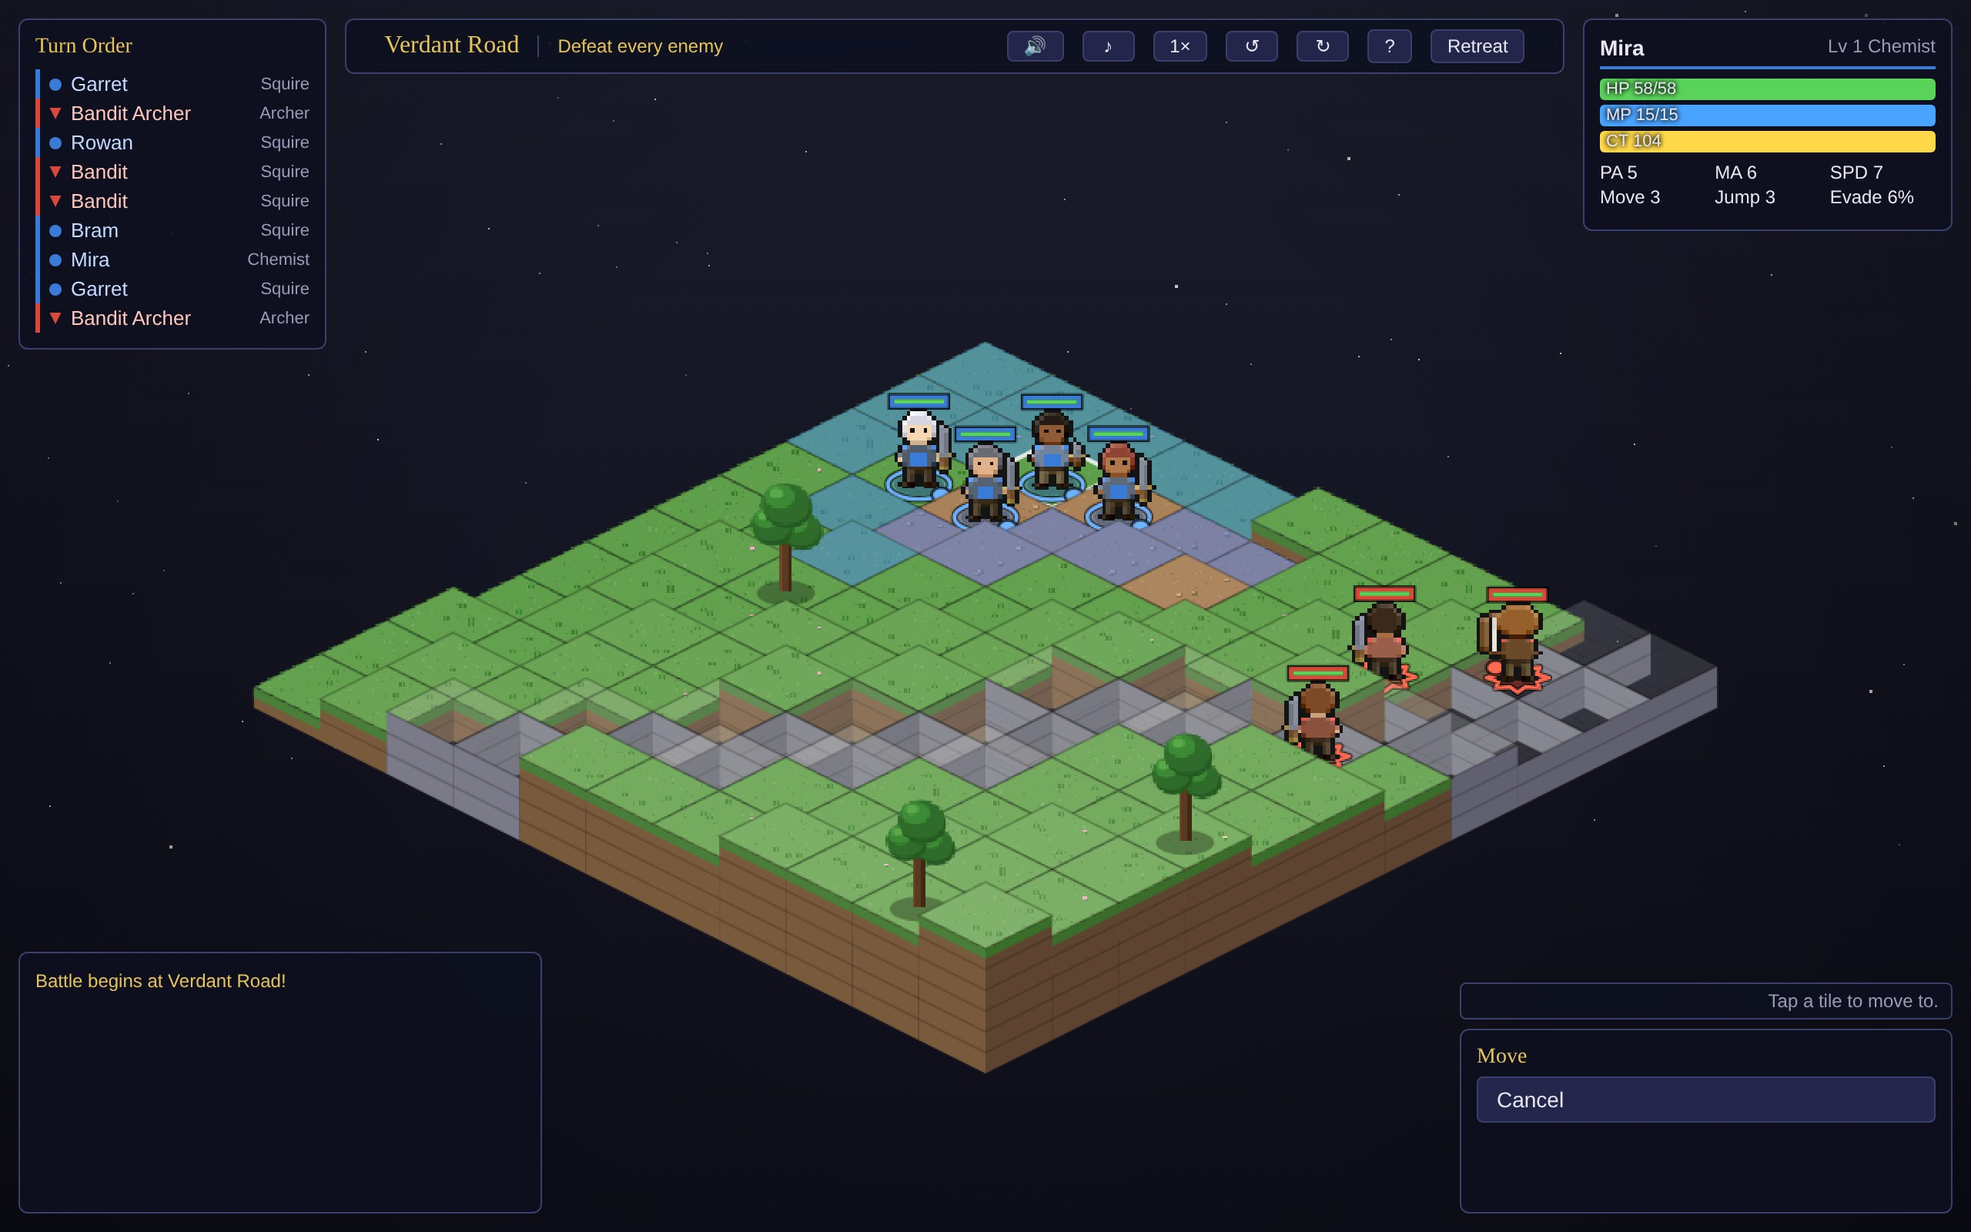
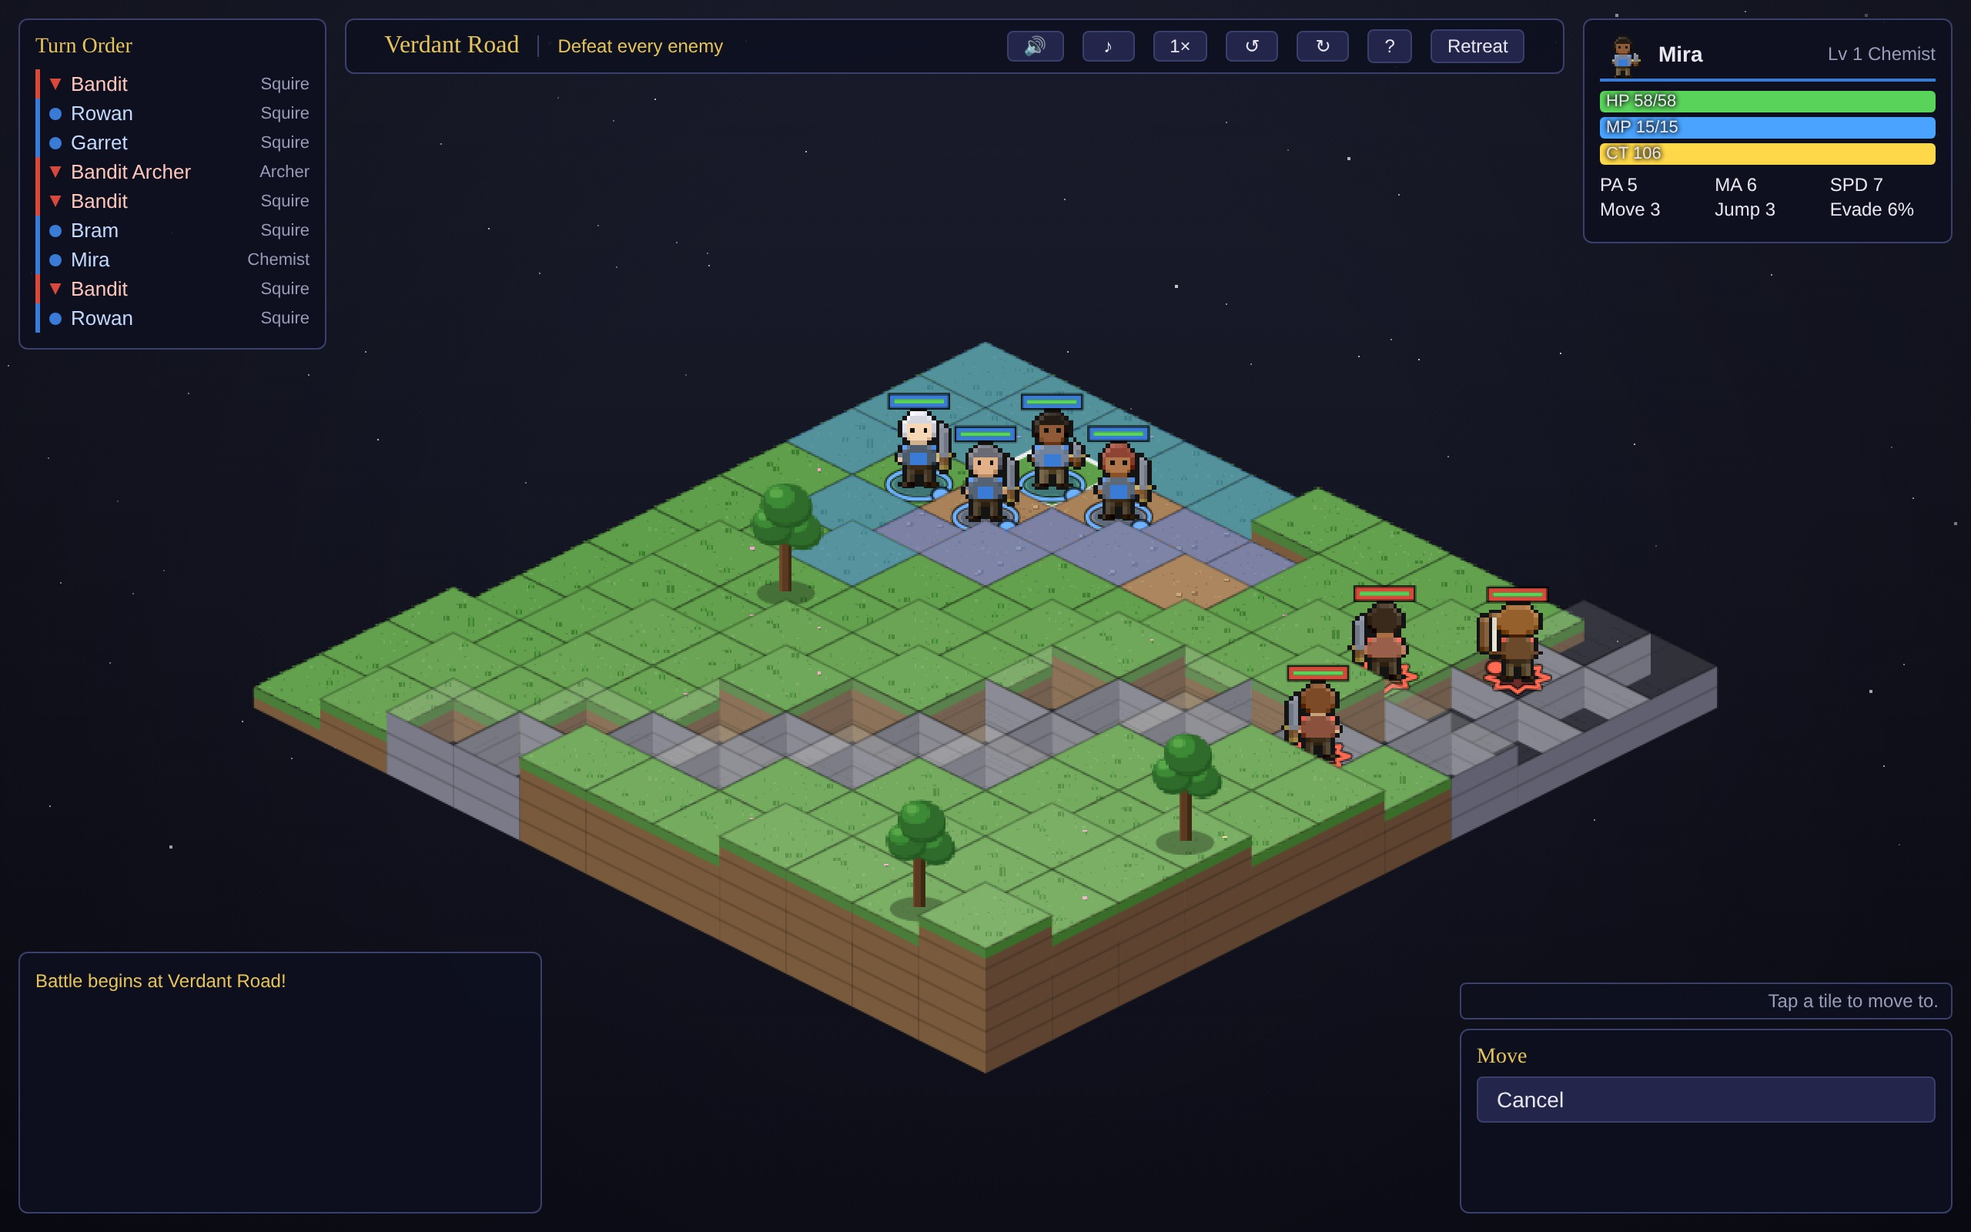
Draw the realm at camp, keep the road going after the war, faces on the card (#17)
The camp was a list of buttons. It now opens on a map of the realm: the
seven chapters as stops along a road, each coloured by the mood of the
field it is fought on, the road walked solid and the road ahead dashed,
flags on the chapters won and a question mark on those not yet reached.
The company's own leader stands beside the next stop, and tapping it
marches. The map is drawn once the screen is showing, since a hidden
canvas has no width to fit, and again when the window changes shape.

The campaign used to end in a disabled button. The road keeps going:
numbered trials on a random field, drawn from the campaign's toughest
pools, a level or two above the party and climbing one trial at a time.
A trial won is recorded and the next is harder; a trial lost costs
nothing and is offered again. The count is saved.

The unit card in battle carries the unit's own face beside its name, so
the figure you tapped and the numbers you read are plainly the same
person.

Chapter numbers sit inside their stops and only the next stop is named
above it, because on a phone a number above one stop landed on the name
below its neighbour. Labels are also kept inside the canvas, where a
stop near the edge lost half its name.

Claude-Session: https://claude.ai/code/session_015rBMt2mMzvqJ2PGqK7HNCX

diff --git a/js/game.js b/js/game.js
@@ -4,6 +4,8 @@
 
 const SAVE_KEY = 'elderon-tactics-save';
 const PACE_KEY = 'elderon.pace';
+// Where each chapter sits on the map of the realm, as fractions of the canvas.
+const WORLD_ROUTE = [[0.09, 0.74], [0.22, 0.50], [0.37, 0.68], [0.52, 0.42], [0.66, 0.64], [0.79, 0.34], [0.91, 0.20]];
 const HIRE_NAMES = ['Aldo', 'Bea', 'Corin', 'Dessa', 'Emeric', 'Faye', 'Gil', 'Hollis', 'Ines', 'Joss', 'Kit', 'Lune', 'Marek', 'Nia', 'Orrin', 'Pell'];
 
 const $ = (id) => document.getElementById(id);
@@ -84,14 +86,14 @@ class Game {
   newGame() {
     this.state = {
       party: STARTING_PARTY.map(p => new Unit(Object.assign({ team: 'player' }, p))),
-      gil: 500, chapter: 0, victories: 0, inventory: {}, difficulty: this.pendingDifficulty || 'knight',
+      gil: 500, chapter: 0, victories: 0, trials: 0, inventory: {}, difficulty: this.pendingDifficulty || 'knight',
     };
     this.showWorld();
   }
 
   saveGame() {
     const data = {
-      v: 3, gil: this.state.gil, chapter: this.state.chapter, victories: this.state.victories,
+      v: 3, gil: this.state.gil, chapter: this.state.chapter, victories: this.state.victories, trials: this.state.trials || 0,
       difficulty: this.state.difficulty,
       inventory: this.state.inventory, party: this.state.party.map(u => u.toSave()),
     };
@@ -119,6 +121,7 @@ class Game {
       gil: Number.isFinite(d.gil) ? d.gil : 0,
       chapter: Number.isFinite(d.chapter) ? Math.max(0, Math.min(CAMPAIGN.length, d.chapter)) : 0,
       victories: d.victories || 0,
+      trials: d.trials || 0,
       inventory: {},
       difficulty: DIFFICULTIES[d.difficulty] ? d.difficulty : 'knight',
       party: d.party.map(p => Unit.fromSave(Object.assign({ team: 'player' }, p))),
@@ -226,9 +229,16 @@ class Game {
       $('btn-battle').disabled = false;
       $('btn-battle').textContent = 'March to Battle';
     } else {
-      $('world-next').innerHTML = `<div class="chapter-title">The war is over... for now.</div><div class="chapter-map">Training battles remain available.</div>`;
-      $('btn-battle').disabled = true;
-      $('btn-battle').textContent = 'Campaign complete';
+      // The war is won; the trials are what a company does with peace.
+      const n = (s.trials || 0) + 1, t = this.trialSpec(n);
+      $('world-next').innerHTML = `
+        <div class="chapter-num">Trial ${n}</div>
+        <div class="chapter-title">${t.title}</div>
+        <div class="chapter-map">${MAPS[t.map].name} · ${t.enemies.length} enemies · Lv ${t.level}</div>
+        <div class="chapter-goal">Objective: Defeat every enemy · ${t.gil} gil</div>
+        <div class="chapter-map">The campaign is complete. Each trial is harder than the last, and nothing is lost by failing one.</div>`;
+      $('btn-battle').disabled = false;
+      $('btn-battle').textContent = `Trial ${n}`;
     }
     const diff = DIFFICULTIES[s.difficulty] || DIFFICULTIES.knight;
     $('world-difficulty').innerHTML = Object.entries(DIFFICULTIES).map(([id, d]) =>
@@ -245,6 +255,8 @@ class Game {
     $('hire-info').textContent = `Hire a level ${hireLvl} recruit for 300 gil (party max 8).`;
     $('btn-hire-squire').disabled = $('btn-hire-chemist').disabled = s.gil < 300 || s.party.length >= 8;
     this.showScreen('world');
+    // Drawn once the screen is showing, so the canvas has a width to fit.
+    this.drawWorldMap();
   }
 
   // A word of warning when the party is walking into a chapter underprepared.
@@ -543,9 +555,125 @@ class Game {
   }
 
   // ---- battles ----------------------------------------------------------------------------------
+  /* After the last chapter the road keeps going: numbered trials on a
+     random field, drawn from the campaign's toughest pools and a level or
+     two above the party, climbing one trial at a time. */
+  trialSpec(n) {
+    const s = this.state;
+    const seed = (s.victories * 7919 + n * 104729) >>> 0;
+    const rnd = (k) => ((seed * (k + 1) * 2654435761) >>> 0) / 4294967296;
+    const mapIds = Object.keys(MAPS);
+    const map = mapIds[Math.floor(rnd(1) * mapIds.length)];
+    const pool = TRAINING_POOL[Math.min(TRAINING_POOL.length - 1, 4 + Math.floor(n / 2))];
+    const count = Math.min(7, pool.length + Math.floor((n - 1) / 3));
+    const jobs = []; for (let i = 0; i < count; i++) jobs.push(pool[Math.floor(rnd(10 + i) * pool.length)]);
+    const level = this.avgLevel() + 1 + Math.floor(n / 2);
+    const titles = ['Echoes of the War', 'The Road Not Taken', 'Old Debts', 'A Rumour of Banners', 'Ghosts of Thornwall',
+                    'The Long Watch', 'Hired Steel', 'What the Marsh Kept', 'The Last Company', 'No Crown but Ours'];
+    return { map, jobs, level, enemies: jobs, gil: 400 + 120 * n, title: titles[(n - 1) % titles.length] };
+  }
+
+  async startTrial() {
+    const n = (this.state.trials || 0) + 1, t = this.trialSpec(n);
+    const map = MAPS[t.map];
+    // Spawn on passable ground far from the deploy zone, as training does.
+    const cands = [];
+    for (let y = 0; y < map.h; y++) for (let x = 0; x < map.w; x++) {
+      if ('wtx'.includes(map.terrain[y][x])) continue;
+      const d = Math.min(...map.deploy.map(p => Math.abs(p[0] - x) + Math.abs(p[1] - y)));
+      if (d >= 6) cands.push({ x, y, d });
+    }
+    cands.sort(() => Math.random() - 0.5);
+    const enemies = t.jobs.map((job, i) => ({ job, level: t.level, x: cands[i % cands.length].x, y: cands[i % cands.length].y }));
+    await this.story(`Trial ${n}: ${t.title}`, [`${map.name}. Word has spread of the company that ended the war, and ${enemies.length} have come to test it.`]);
+    const res = await this.runBattle(map, enemies, t.gil, { objective: { type: 'rout' } });
+    if (res === 'aborted') return;
+    if (res === 'victory') { this.state.trials = n; this.state.victories++; }
+    this.saveGame();
+    this.showWorld();
+  }
+
+  /* The realm, drawn: the seven chapters as stops along a road, coloured by
+     the mood of the field each is fought on, with the company's own leader
+     standing where the story has reached. */
+  drawWorldMap() {
+    const cv = $('world-map');
+    if (!cv) return;
+    const cssW = Math.max(280, cv.clientWidth || 800), cssH = cssW / 2, dpr = Math.min(2, window.devicePixelRatio || 1);
+    cv.width = Math.round(cssW * dpr); cv.height = Math.round(cssH * dpr);
+    const c = cv.getContext('2d');
+    c.setTransform(dpr, dpr, 0, 0, 0, 0); c.setTransform(dpr, 0, 0, dpr, 0, 0);
+    const W = cssW, H = cssH;
+    const bg = c.createLinearGradient(0, 0, W, H);
+    bg.addColorStop(0, '#1c1a2e'); bg.addColorStop(1, '#0f0e1a');
+    c.fillStyle = bg; c.fillRect(0, 0, W, H);
+    // Contours, so the parchment is a land and not a panel.
+    c.strokeStyle = 'rgba(255,255,255,0.05)'; c.lineWidth = 1;
+    for (let i = 0; i < 9; i++) {
+      c.beginPath();
+      for (let x = 0; x <= W; x += 16) {
+        const y = H * (0.12 + i * 0.1) + Math.sin(x / 60 + i) * 8 + Math.sin(x / 23 + i * 2) * 3;
+        if (x) c.lineTo(x, y); else c.moveTo(x, y);
+      }
+      c.stroke();
+    }
+    const pts = WORLD_ROUTE.map(([fx, fy]) => ({ x: fx * W, y: fy * H }));
+    // The road, dashed where it has not yet been walked.
+    const reached = Math.min(this.state.chapter, pts.length - 1);
+    const road = (from, to, dashed) => {
+      c.beginPath(); c.setLineDash(dashed ? [5, 6] : []);
+      c.moveTo(pts[from].x, pts[from].y);
+      for (let i = from + 1; i <= to; i++) {
+        const a = pts[i - 1], b = pts[i], mx = (a.x + b.x) / 2, my = (a.y + b.y) / 2 + (i % 2 ? 18 : -18);
+        c.quadraticCurveTo(mx, my, b.x, b.y);
+      }
+      c.stroke(); c.setLineDash([]);
+    };
+    c.lineWidth = 4; c.strokeStyle = 'rgba(0,0,0,0.5)'; road(0, pts.length - 1, false);
+    c.lineWidth = 2; c.strokeStyle = '#8a7a58'; road(0, reached, false);
+    c.strokeStyle = 'rgba(138,122,88,0.5)'; road(reached, pts.length - 1, true);
+    c.font = '11px Georgia, serif'; c.textAlign = 'center';
+    CAMPAIGN.forEach((ch, i) => {
+      const p = pts[i], mood = MOODS[MAPS[ch.map].mood] || MOODS.day;
+      const done = i < this.state.chapter, next = i === this.state.chapter;
+      c.beginPath(); c.arc(p.x, p.y, 9, 0, Math.PI * 2);
+      c.fillStyle = done || next ? mood.sky[0] : '#1a1a26'; c.fill();
+      c.lineWidth = next ? 3 : 1.5;
+      c.strokeStyle = next ? '#ffd84a' : done ? '#c9b98a' : 'rgba(255,255,255,0.18)'; c.stroke();
+      if (next) { c.beginPath(); c.arc(p.x, p.y, 15, 0, Math.PI * 2); c.strokeStyle = 'rgba(255,216,74,0.35)'; c.lineWidth = 1; c.stroke(); }
+      if (done) { c.fillStyle = '#c9b98a'; c.fillRect(p.x - 1, p.y - 14, 2, 10); c.fillStyle = '#d8483b'; c.beginPath(); c.moveTo(p.x + 1, p.y - 14); c.lineTo(p.x + 9, p.y - 11); c.lineTo(p.x + 1, p.y - 8); c.closePath(); c.fill(); }
+      // Labels are kept inside the canvas; a stop near an edge would
+      // otherwise lose half its name.
+      const lx = Math.max(40, Math.min(W - 40, p.x));
+      c.fillStyle = done || next ? '#e6e6f0' : 'rgba(230,230,240,0.35)';
+      const label = done || next ? MAPS[ch.map].name : '?';
+      c.fillText(label, lx, p.y + 24);
+      // The number sits inside its stop; only the next stop is named above,
+      // so numbers and neighbours' names never collide on a narrow screen.
+      if (next) { c.fillStyle = '#ffd84a'; c.fillText('Chapter ' + (i + 1), lx, p.y - 14); }
+      else { c.fillStyle = done ? '#1a1a26' : 'rgba(230,230,240,0.5)'; c.font = 'bold 10px Georgia, serif'; c.fillText(String(i + 1), p.x, p.y + 4); c.font = '11px Georgia, serif'; }
+    });
+    // The company, where the story has reached.
+    const leader = this.state.party.find(u => u.leader) || this.state.party[0];
+    if (leader) {
+      const at = pts[Math.min(this.state.chapter, pts.length - 1)];
+      const face = document.createElement('canvas');
+      paintUnitSprite(face, leader, 1);
+      c.imageSmoothingEnabled = false;
+      // Beside the stop, clear of its label.
+      c.drawImage(face, at.x + 18, at.y - face.height + 6);
+    }
+    cv.onclick = (e) => {
+      const r = cv.getBoundingClientRect();
+      const x = (e.clientX - r.left) * (W / r.width), y = (e.clientY - r.top) * (H / r.height);
+      const next = pts[this.state.chapter];
+      if (next && Math.hypot(x - next.x, y - next.y) < 22) $('btn-battle').click();
+    };
+  }
+
   async startNextChapter() {
     const ch = CAMPAIGN[this.state.chapter];
-    if (!ch) return;
+    if (!ch) return this.startTrial();
     await this.story(ch.title, ch.intro);
     const result = await this.runBattle(MAPS[ch.map], ch.enemies, ch.gil, { objective: ch.objective });
     if (result === 'aborted') return;
@@ -739,7 +867,7 @@ window.addEventListener('DOMContentLoaded', () => {
     game.renderer.centerCamera();
   };
   window.addEventListener('orientationchange', () => setTimeout(reframe, 250));
-  window.addEventListener('resize', () => { clearTimeout(window.__rt); window.__rt = setTimeout(reframe, 200); });
+  window.addEventListener('resize', () => { clearTimeout(window.__rt); window.__rt = setTimeout(() => { reframe(); if (game.screen === 'world') game.drawWorldMap(); }, 200); });
   // A quiet blip on any button keeps the menus feeling responsive.
   document.addEventListener('click', (e) => {
     if (e.target.tagName === 'BUTTON' && !e.target.disabled) audio.sfx('menu');

diff --git a/css/style.css b/css/style.css
@@ -29,6 +29,8 @@ small { color: var(--muted); }
 /* ---------- world ---------- */
 .world-layout { display: flex; gap: 24px; max-width: 1000px; margin: 40px auto; padding: 0 20px; }
 .world-main { flex: 1; }
+/* The realm: where the company has been and where it goes next. */
+#world-map { display: block; width: 100%; aspect-ratio: 2 / 1; border-radius: 6px; border: 1px solid var(--border); background: #14121f; cursor: pointer; margin-bottom: 12px; }
 .world-side { width: 300px; }
 .card { background: var(--panel); border: 1px solid var(--border); border-radius: 6px; padding: 16px; margin-bottom: 16px; }
 .chapter-num { color: var(--muted); text-transform: uppercase; letter-spacing: 2px; font-size: 12px; }
@@ -104,8 +106,10 @@ small { color: var(--muted); }
 .order-row.pending .dot { background: #ffd84a; border-radius: 0; clip-path: none; transform: rotate(45deg); }
 #unit-card { top: 12px; right: 12px; width: 240px; min-height: 0; }
 #unit-card:empty { display: none; }
-.card-head { display: flex; justify-content: space-between; border-bottom: 2px solid #888; padding-bottom: 4px; margin-bottom: 6px; }
+.card-head { display: flex; align-items: center; gap: 8px; border-bottom: 2px solid #888; padding-bottom: 4px; margin-bottom: 6px; }
+.card-head b { flex: 1; }
 .card-head span { color: var(--muted); font-size: 12px; }
+.card-face { width: 30px; height: 32px; image-rendering: pixelated; flex: none; margin: -4px 0; }
 .card-head.player { border-color: var(--player); }
 .card-head.enemy { border-color: var(--enemy); }
 .bar { position: relative; height: 14px; background: #111; border-radius: 3px; margin: 3px 0; overflow: hidden; }

diff --git a/js/ui.js b/js/ui.js
@@ -154,7 +154,7 @@ class BattleUI {
       .map(a => `<span class="aff" style="color:${ELEMENTS[a.e].color}">${ELEMENTS[a.e].name} ${affinityLabel(a.m)}</span>`).join('');
     const mods = Object.entries(u.mods).filter(([, v]) => v).map(([k, v]) => `${k.toUpperCase()} ${v > 0 ? '+' : ''}${v}`).join(', ');
     this.el.card.innerHTML = `
-      <div class="card-head ${u.team}"><b>${u.name}</b><span>Lv ${u.level} ${u.jobData.name}${u.boss ? ' ★' : ''}</span></div>
+      <div class="card-head ${u.team}"><canvas class="card-face"></canvas><b>${u.name}</b><span>Lv ${u.level} ${u.jobData.name}${u.boss ? ' ★' : ''}</span></div>
       <div class="bar hp"><i style="width:${(u.hp / u.maxHp) * 100}%"></i><span>HP ${u.hp}/${u.maxHp}</span></div>
       <div class="bar mp"><i style="width:${u.maxMp ? (u.mp / u.maxMp) * 100 : 0}%"></i><span>MP ${u.mp}/${u.maxMp}</span></div>
       <div class="bar ct"><i style="width:${Math.min(100, u.ct)}%"></i><span>CT ${u.ct}</span></div>
@@ -166,6 +166,9 @@ class BattleUI {
       <div class="statuses">${st}</div>
       ${aff ? `<div class="affinities">${aff}</div>` : ''}
       ${u.alive ? '' : `<div class="ko">KO${u.koCount ? ` — carried off in ${u.koCount}` : ''}</div>`}`;
+    // A face on the card, so the figure you tapped and the numbers you read
+    // are plainly the same person.
+    paintUnitSprite(this.el.card.querySelector('.card-face'), u, 1);
   }
 
   renderTileInfo(t) {

diff --git a/tools/make-store.js b/tools/make-store.js
@@ -142,7 +142,13 @@ async function toMenu(page) {
     await page.waitForSelector('#screen-shop.active');
     await page.waitForTimeout(300);
     await shot(page, 'phone-6-shop.jpg');
-    written.push('phone-1-title.jpg', 'phone-2-deploy.jpg', 'phone-3-move.jpg', 'phone-4-attack.jpg', 'phone-5-formation.jpg', 'phone-6-shop.jpg');
+    // The camp, a few chapters in, so the map shows a road already walked.
+    await page.click('#btn-shop-back');
+    await page.waitForSelector('#screen-world.active');
+    await page.evaluate(() => { game.state.chapter = 3; game.showWorld(); });
+    await page.waitForTimeout(300);
+    await shot(page, 'phone-7-camp.jpg');
+    written.push('phone-1-title.jpg', 'phone-2-deploy.jpg', 'phone-3-move.jpg', 'phone-4-attack.jpg', 'phone-5-formation.jpg', 'phone-6-shop.jpg', 'phone-7-camp.jpg');
     await ctx.close();
   }
 

diff --git a/index.html b/index.html
@@ -35,6 +35,7 @@
   <div class="world-layout">
     <div class="world-main">
       <h2>Camp</h2>
+      <canvas id="world-map" width="800" height="400" title="The road ahead"></canvas>
       <div id="world-next" class="card"></div>
       <div class="world-actions">
         <button id="btn-battle" class="primary">March to Battle</button>

diff --git a/README.md b/README.md
@@ -90,6 +90,12 @@ a browser, or serve the folder with any static file server.
 - **Every field has a mood**: its own sky and light, mist over the ruins,
   embers on the ridge, rain at the gate, fireflies in the marsh, and one of
   three battle themes chosen to match.
+- **A map of the realm** at camp: the seven chapters as stops along a road,
+  coloured by the mood of each field, with your leader standing where the
+  story has reached. Tap the next stop to march.
+- **Trials after the war**: once the campaign is won the road keeps going,
+  with numbered battles that climb a level or two above the party each time.
+  Losing one costs nothing.
 - **Three difficulty settings** that shift the opposition rather than the party,
   so your own numbers always mean the same thing: enemy level, equipment tier
   and the size of the purse. Changeable at any time from camp.

diff --git a/store/LISTING.md b/store/LISTING.md
@@ -71,7 +71,7 @@ from this repository, for instance
 |---|---|---|
 | App icon | `icon-512.png` | 512×512 PNG, under 1 MB |
 | Feature graphic | `feature-graphic-1024x500.jpg` | 1024×500, JPEG or PNG without alpha |
-| Phone screenshots (2–8) | `phone-1-title.jpg` … `phone-6-shop.jpg` | 1200×2400, each side 320–3840 px, long side at most twice the short |
+| Phone screenshots (2–8) | `phone-1-title.jpg` … `phone-7-camp.jpg` | 1200×2400, each side 320–3840 px, long side at most twice the short |
 | 7-inch tablet (up to 8) | `tablet-1-battle.jpg`, `tablet-2-formation.jpg` | 2560×1600 |
 | 10-inch tablet (up to 8) | the same two files | 2560×1600 |
 

diff --git a/android/PLAY_STORE.md b/android/PLAY_STORE.md
@@ -88,7 +88,7 @@ default language English. Then, in the left-hand menu:
    features, health. Category: Game → Strategy.
 2. **Store listing** — paste the name, short and full descriptions from
    `store/LISTING.md`; upload `store/icon-512.png`, the feature graphic and
-   the phone screenshots (two minimum, all six is better). Tablet
+   the phone screenshots (two minimum, all seven is better). Tablet
    screenshots are optional; the two in `store/` fit both tablet slots.
 3. **Play App Signing** — accept it when the first release asks; upload the
    bundle from step 3.
